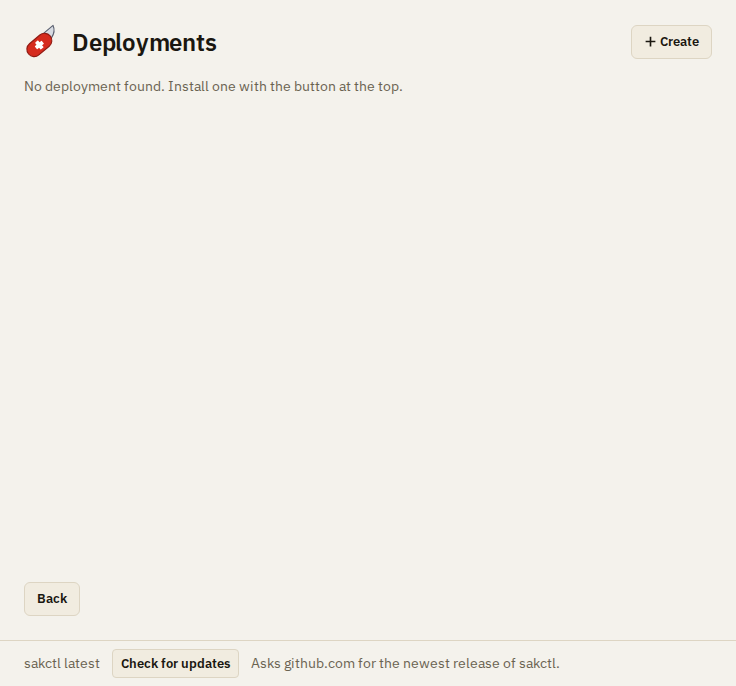
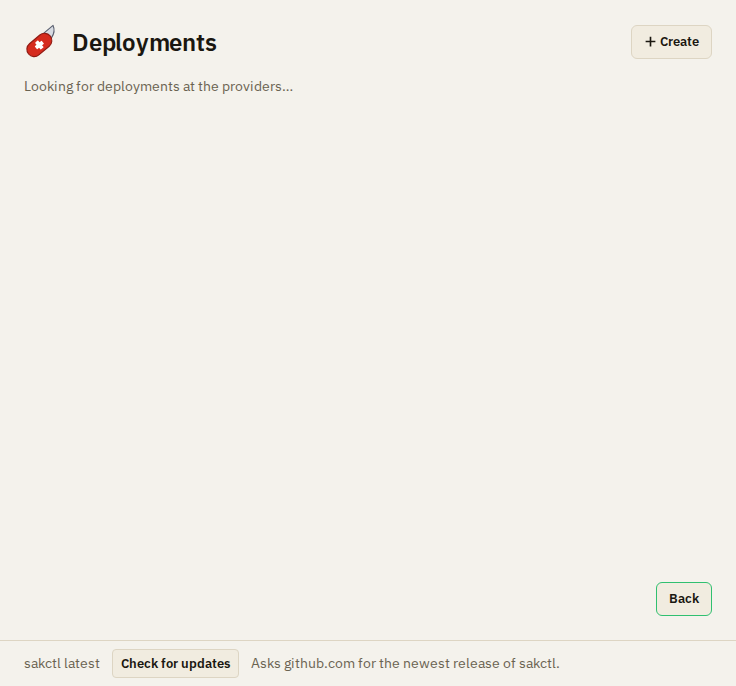
The buttons at the bottom of a page are one group at the right, back its leftmost button (UI-UX.md); a resource with changes shows its state in yellow, the provisioning without the reason it runs

Changed region(s): [[0.0312, 0.1224, 0.5625, 0.1531], [0.9062, 0.8571, 0.9688, 0.8878], [0.0312, 0.8571, 0.0938, 0.8878]]

diff --git a/sak-cli/ui/index.html b/sak-cli/ui/index.html
@@ -17,9 +17,8 @@
   </head>
   <body>
     <!-- one view at a time, show() of views.js switches between them; data-text is the key of a
-         text of src-tauri/locales/. Back is the leftmost button at the bottom; the other buttons
-         that move through the steps (next, cancel, plan, create) are in the button group at the
-         bottom right. Buttons that act on the data
+         text of src-tauri/locales/. Buttons that move through the steps (back, next, cancel, plan,
+         create) are in the button group at the bottom right, back always its leftmost button. Buttons that act on the data
          of the view (add a provider, create a deployment) are at the top right of the header -->
     <main class="view splash" id="view-splash">
       <!-- the icon and the title a third down the window, the checks hang below them -->
@@ -110,7 +109,9 @@
       <p class="hint" id="deployments-status" aria-live="polite"></p>
       <ul class="deployments" id="deployments"></ul>
       <div class="page-footer">
-        <button type="button" class="btn btn-outline-secondary back" id="deployments-back" data-text="ui.back"></button>
+        <div class="btn-group" role="group">
+          <button type="button" class="btn btn-outline-secondary" id="deployments-back" data-text="ui.back"></button>
+        </div>
       </div>
     </main>
 
@@ -134,11 +135,12 @@
            has them, the provisioning included -->
       <ul class="resources" id="deployment-resources"></ul>
       <p class="hint" id="deployment-message" aria-live="polite"></p>
-      <!-- back at the left, force deploy in the middle, deploy changes at the right -->
-      <div class="page-footer page-footer-split">
-        <button type="button" class="btn btn-outline-secondary back" id="deployment-back" data-text="ui.back"></button>
-        <button type="button" class="btn btn-outline-secondary" id="deployment-force" data-text="ui.plan.force_deploy" disabled></button>
-        <button type="button" class="btn btn-outline-secondary" id="deployment-deploy" data-text="ui.plan.deploy_changes" disabled></button>
+      <div class="page-footer">
+        <div class="btn-group" role="group">
+          <button type="button" class="btn btn-outline-secondary" id="deployment-back" data-text="ui.back"></button>
+          <button type="button" class="btn btn-outline-secondary" id="deployment-force" data-text="ui.plan.force_deploy" disabled></button>
+          <button type="button" class="btn btn-outline-secondary" id="deployment-deploy" data-text="ui.plan.deploy_changes" disabled></button>
+        </div>
       </div>
     </main>
 

diff --git a/sak-cli/ui/deployment.js b/sak-cli/ui/deployment.js
@@ -1,9 +1,9 @@
 // the page of one deployment, opened with its password: its state, location and resources. It
 // checks the deployment when it opens: a deploy of the deployment as it is, planned in rust, its
 // rows those of the plan, the provisioning included. The toolbar at the top right: destroy, which
-// opens the form of a destroy, and check, which checks again. At the bottom: back to the list,
-// force deploy (after a check, the playbook runs again) and deploy changes (only when the check
-// found changes). The one green button is check, or deploy changes when there are changes
+// opens the form of a destroy, and check, which checks again. At the bottom right, one group:
+// back to the list, force deploy (after a check, the playbook runs again) and deploy changes (only
+// when the check found changes). The one green button is check, or deploy changes when there are changes
 import { showCreate } from './create.js';
 import { STATES, resource } from './deployments.js';
 import { openedDeployment } from './password.js';

diff --git a/sak-cli/ui/style.css b/sak-cli/ui/style.css
@@ -211,26 +211,6 @@ body {
   justify-content: flex-end;
 }
 
-/* back is always the leftmost button at the bottom, the others stay at the right */
-.page-footer .back {
-  margin-right: auto;
-}
-
-/* back at the left, one button in the middle, one at the right */
-.page-footer-split {
-  display: grid;
-  grid-template-columns: 1fr auto 1fr;
-  align-items: center;
-}
-
-.page-footer-split > :last-child {
-  justify-self: end;
-}
-
-.page-footer-split > .back {
-  justify-self: start;
-  margin-right: 0;
-}
 
 /* the title of a page at the top and its buttons at the bottom stay in view, only what is between
    them scrolls; they reach over the padding of the page, so nothing scrolls past around them */
@@ -390,6 +370,10 @@ body {
 .resource[data-status="missing"] .resource-detail,
 .resource[data-status="parent_missing"] .resource-detail {
   color: var(--sak-info);
+}
+
+.resource[data-status="has_changes"] .resource-detail {
+  color: var(--sak-warn);
 }
 
 .resource-change {

diff --git a/sak-cli/ui/run.js b/sak-cli/ui/run.js
@@ -70,7 +70,8 @@ export function row({ kind, name: resourceName, resourceStatus, action, working,
   const status = text(`shared.resource_status.${resourceStatus}`);
   detail.textContent = action ? `${status}, ${text(`shared.plan.${action}`)}` : status;
   item.append(mark, kindLabel, name, detail);
-  for (const change of changes) {
+  // the provisioning tells no more than that it runs
+  for (const change of kind === 'provisioning' ? [] : changes) {
     const line = document.createElement('span');
     line.className = 'resource-change';
     line.textContent = change;

diff --git a/docs/development/UI-UX.md b/docs/development/UI-UX.md
@@ -43,10 +43,10 @@ line. How the system is built is in [ARCHITECTURE.md](ARCHITECTURE.md), how the 
 
 ## sakctl window
 
-- **One page at a time.** Each page has a header and, if needed, actions at the bottom. Back is always the leftmost
-  button at the bottom. The other buttons that move through the steps (next, cancel, plan, create) are at the bottom
-  right. Buttons that act on the data of the page (add a provider, create a deployment) are at the top right of the
-  header. One action of a page is the primary one, the one green button.
+- **One page at a time.** Each page has a header and, if needed, actions at the bottom. The buttons that move through
+  the steps (back, next, cancel, plan, create) are one group at the bottom right, back always its leftmost button.
+  Buttons that act on the data of the page (add a provider, create a deployment) are at the top right of the header.
+  One action of a page is the primary one, the one green button.
 - **The footer.** Below every page, the footer shows the version of sakctl and the button that checks for an update.
   The button names GitHub, which it asks. Only a click asks; a newer version shows a second button that installs it.
 - **Start-up checks.** The splash screen runs the checks and has a Quit button. A failed check shows its reason in
@@ -56,8 +56,8 @@ line. How the system is built is in [ARCHITECTURE.md](ARCHITECTURE.md), how the 
   shows no state: without the password it sees only the labels of the resources. The page of a deployment, opened
   with the password, checks the deployment at once: each resource and the provisioning with its state and changes,
   as the plan of a deploy has them, and the state of the deployment. At the top right: destroy and check, which
-  checks again. At the bottom: back at the left, force deploy in the middle (after a check; the playbook runs again)
-  and deploy changes at the right (only when the check found changes). Check is the green button, deploy changes
+  checks again. At the bottom right, one group: back, force deploy (after a check; the playbook runs again) and
+  deploy changes (only when the check found changes). Check is the green button, deploy changes
   instead when there are changes.
 - **Plan before change.** Create, deploy and destroy show a plan first: what will be created, changed, created anew
   or removed. The plan of a deploy is the check on the page of the deployment. Only the apply changes something, and it shows each resource as it goes, with the output of the
